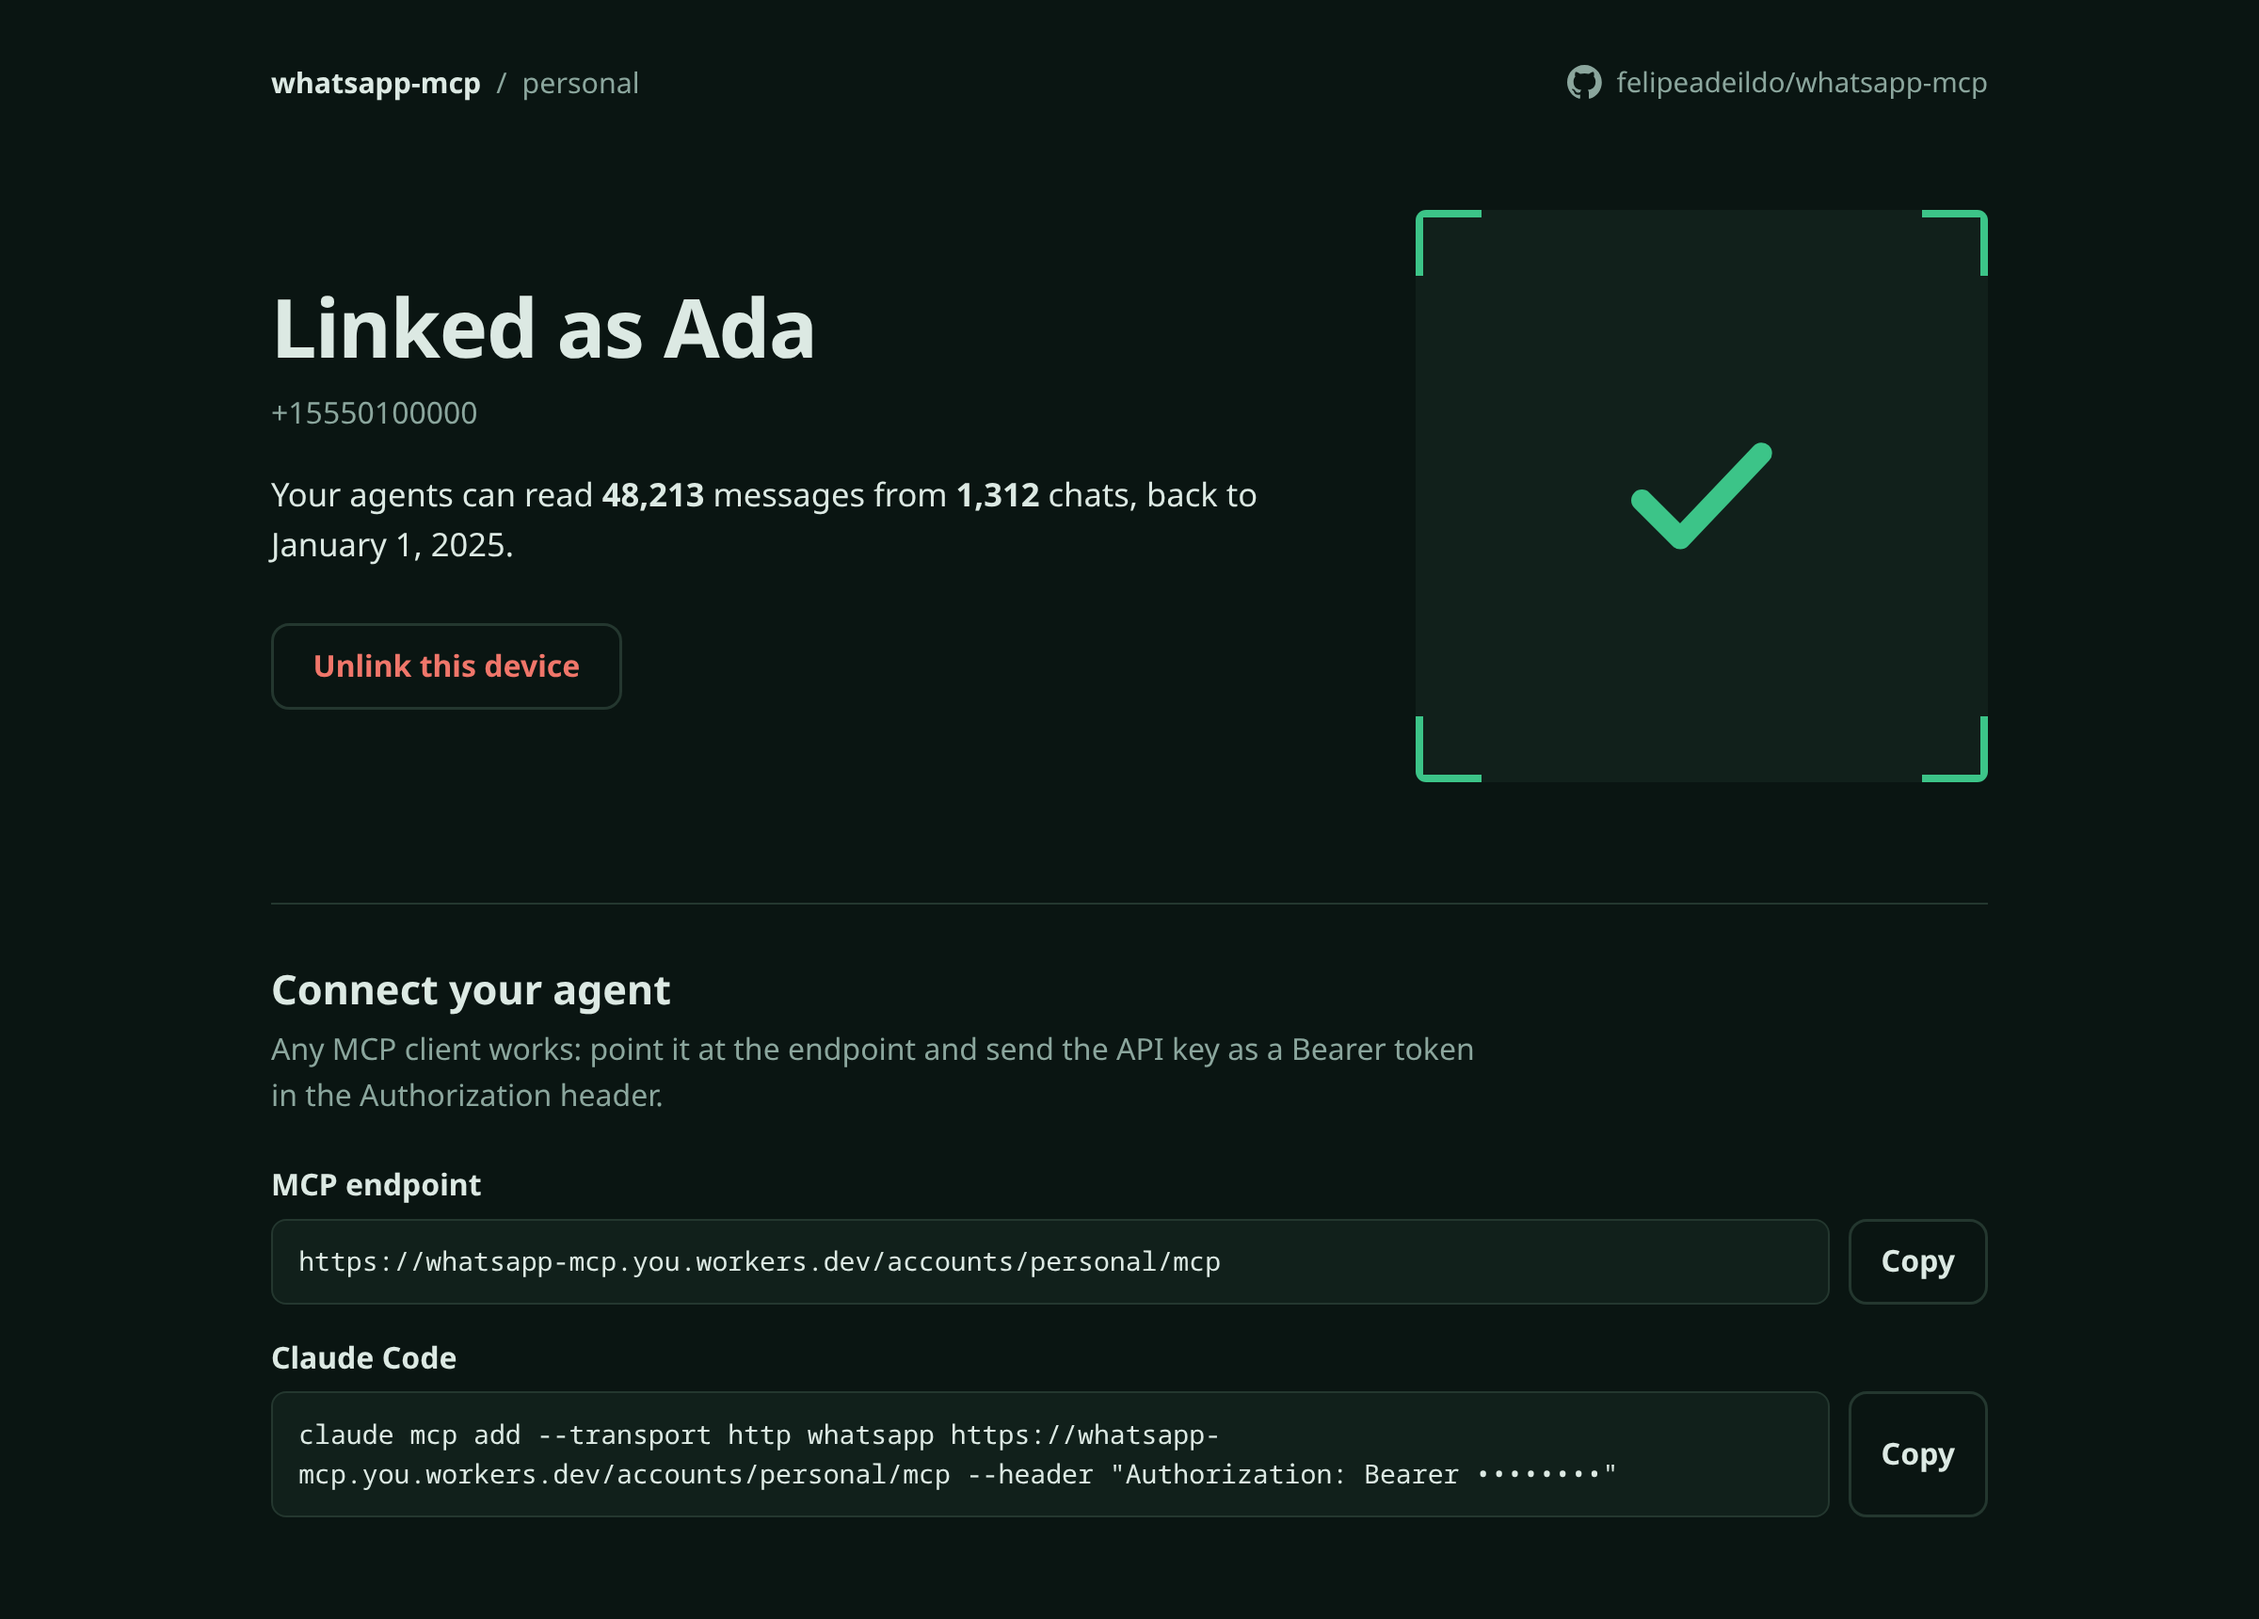
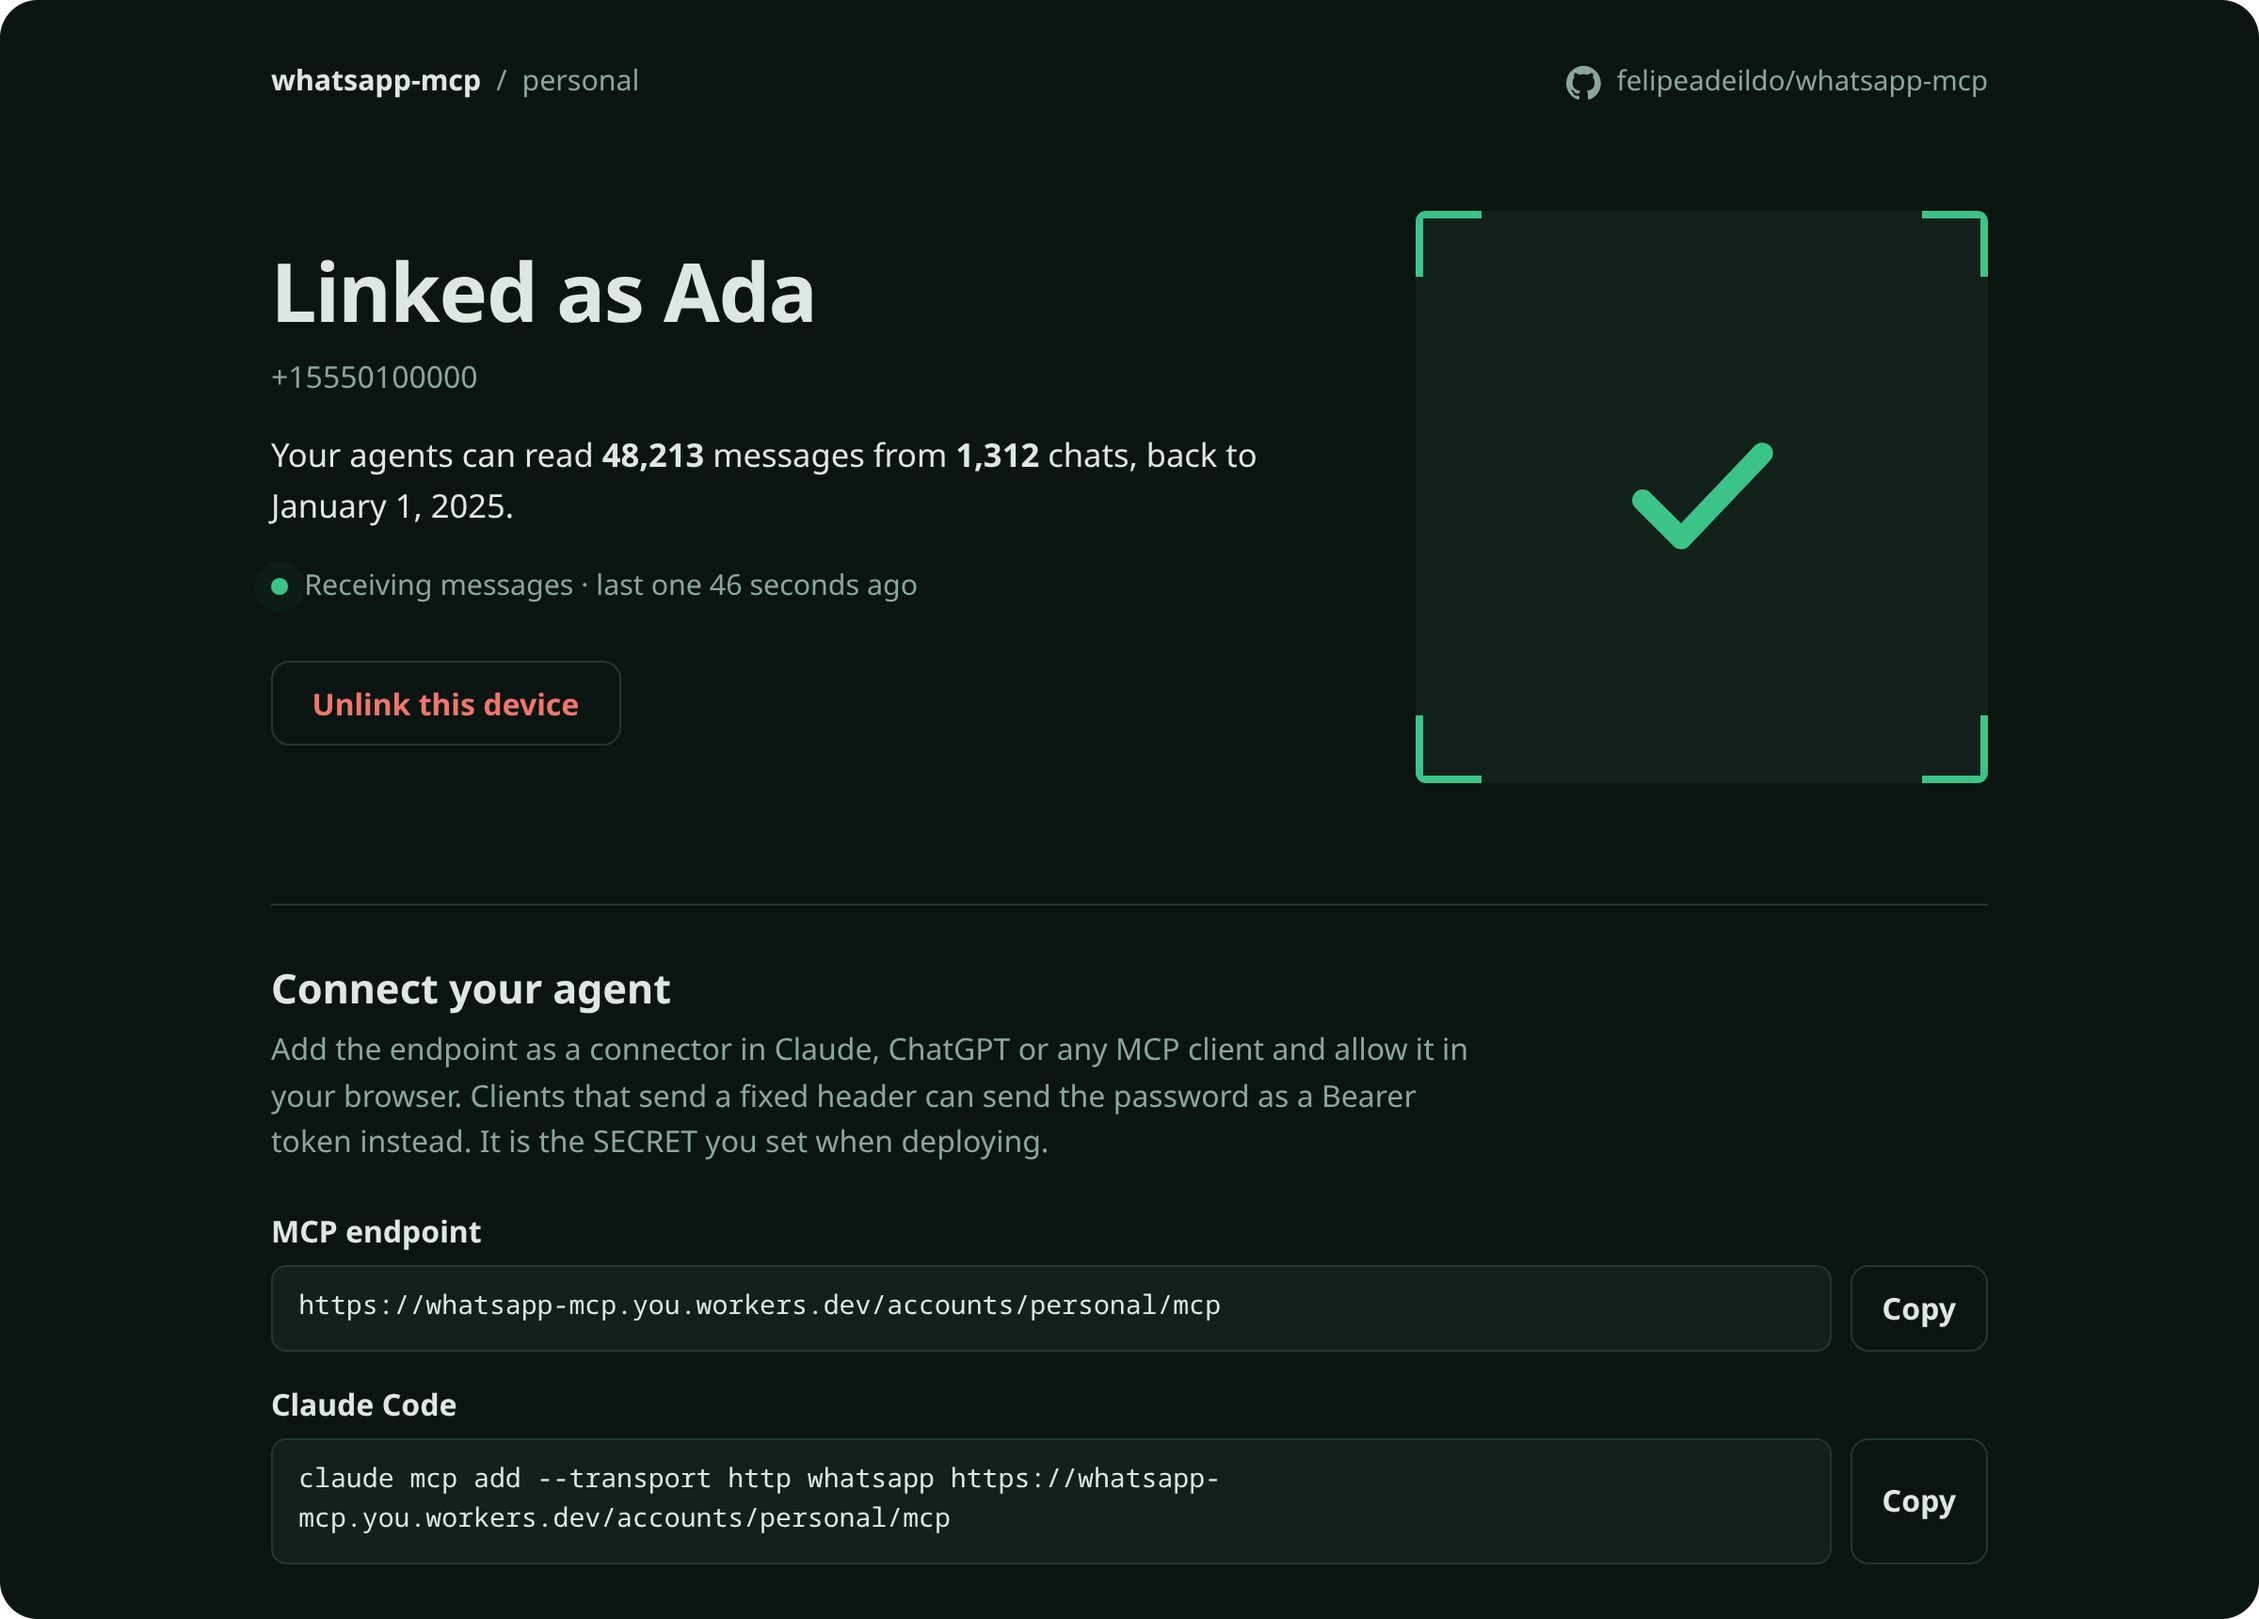
docs: explain OAuth and AUTH_MODE and refresh the screenshots with rounded corners

diff --git a/README.md b/README.md
@@ -16,7 +16,7 @@
 
 whatsapp-mcp lets an AI assistant like Claude read your WhatsApp chats, search them and send messages for you. It connects to your account the same way [WhatsApp Web](https://faq.whatsapp.com/1317564962315842) does, as a linked device, and keeps a searchable copy of your chats.
 
-It speaks [MCP](https://modelcontextprotocol.io/introduction), the standard way AI apps connect to tools, so it works with Claude Code, Cursor and other MCP clients. It runs on your own [Cloudflare](https://www.cloudflare.com) account, so your messages stay with you.
+It speaks [MCP](https://modelcontextprotocol.io/introduction), the standard way AI apps connect to tools, so it works with Claude, ChatGPT, Claude Code, Cursor and other MCP clients. It runs on your own [Cloudflare](https://www.cloudflare.com) account, so your messages stay with you.
 
 Once it is set up, you can ask things like:
 
@@ -32,14 +32,14 @@ You need a [Cloudflare account](https://dash.cloudflare.com/sign-up), a [GitHub 
 
 Click **Deploy to Cloudflare** above. Cloudflare copies this project to your GitHub, builds it and puts it online at an address like `https://whatsapp-mcp.<your-name>.workers.dev`.
 
-During the setup it asks for an `API_KEY`. That is a password you make up for your server. Generate a strong one in a terminal with `openssl rand -hex 32`, or use a password manager, and keep it safe. Anyone who has it can read and send your messages.
+During the setup it asks for a `SECRET`. That is the password of your server, at least 16 characters. Generate a strong one in a terminal with `openssl rand -hex 32`, or use a password manager, and keep it safe. Anyone who has it can read and send your messages.
 
 ### 2. Link your WhatsApp
 
-Open this address in your browser, with your API key after the `#`:
+Open this address in your browser and sign in with your `SECRET`:
 
 ```
-https://whatsapp-mcp.<your-name>.workers.dev/accounts/personal#<API_KEY>
+https://whatsapp-mcp.<your-name>.workers.dev/accounts/personal
 ```
 
 Select **Link WhatsApp**. On your phone, open WhatsApp, go to **Settings → Linked devices → Link a device** and point the camera at the code. The page then counts your chats as they arrive.
@@ -52,15 +52,19 @@ Select **Link WhatsApp**. On your phone, open WhatsApp, go to **Settings → Lin
 
 ### 3. Connect your AI assistant
 
-The pairing page shows the command for [Claude Code](https://docs.anthropic.com/en/docs/claude-code/mcp) with a copy button:
+Add this address as a custom connector in Claude or ChatGPT, or as a remote MCP server in any other client:
 
-```sh
-claude mcp add --transport http whatsapp \
-  https://whatsapp-mcp.<your-name>.workers.dev/accounts/personal/mcp \
-  --header "Authorization: Bearer <API_KEY>"
+```
+https://whatsapp-mcp.<your-name>.workers.dev/accounts/personal/mcp
 ```
 
-Other MCP clients need the same address and an `Authorization: Bearer <API_KEY>` header. See your client's documentation for where to put them.
+The app opens your server in the browser. Sign in with your `SECRET` and select **Allow**. In [Claude Code](https://docs.anthropic.com/en/docs/claude-code/mcp) that is:
+
+```sh
+claude mcp add --transport http whatsapp https://whatsapp-mcp.<your-name>.workers.dev/accounts/personal/mcp
+```
+
+Scripts and clients that can set a header can skip the browser and send `Authorization: Bearer <SECRET>` instead.
 
 ## What your assistant can do
 
@@ -91,7 +95,7 @@ Tools that send or change something tell your assistant so, and most assistants 
 
 ```mermaid
 flowchart LR
-  agent["AI assistant"] -- "MCP + API key" --> worker["Worker"]
+  agent["AI assistant"] -- "MCP + OAuth" --> worker["Worker"]
   worker -- "RPC" --> account
   subgraph account["Durable Object, one per WhatsApp account"]
     socket["WhatsApp session<br/>whatsapp-rust in WASM"]
@@ -107,12 +111,15 @@ WhatsApp sends your recent history once, when you link, and the archive keeps ev
 
 ## Configuration
 
-| Name       | Kind     | Purpose                                                       |
-| ---------- | -------- | ------------------------------------------------------------- |
-| `API_KEY`  | Secret   | The password every request needs                              |
-| `TIMEZONE` | Variable | Time zone for dates, like `America/Sao_Paulo`. `UTC` if unset |
+| Name        | Kind     | Purpose                                                               |
+| ----------- | -------- | --------------------------------------------------------------------- |
+| `SECRET`    | Secret   | The password of your server, at least 16 characters                   |
+| `AUTH_MODE` | Variable | How MCP clients get in: `oauth`, `api_key` or `both`. `both` if unset |
+| `TIMEZONE`  | Variable | Time zone for dates, like `America/Sao_Paulo`. `UTC` if unset         |
 
-Change `TIMEZONE` in `wrangler.jsonc`, or pass `--var TIMEZONE:<zone>` to `wrangler deploy`. The pairing page also uses a small REST API under `/accounts/:id`: `status`, `start`, `send` and `logout`.
+With `oauth`, an app connects after you sign in with `SECRET` in the browser and allow it. With `api_key`, clients send `Authorization: Bearer <SECRET>` on every request. The pairing page asks for `SECRET` in every mode, and allows five attempts per minute.
+
+Change the variables in `wrangler.jsonc`, or pass `--var TIMEZONE:<zone>` to `wrangler deploy`. OAuth grants live in a KV namespace that the first deploy creates. The pairing page also uses a small REST API under `/accounts/:id`: `status`, `start`, `send` and `logout`.
 
 ## Costs
 
@@ -137,7 +144,7 @@ See [Workers pricing](https://developers.cloudflare.com/workers/platform/pricing
 
 ## Is it safe?
 
-Your session and your messages stay in your Cloudflare account. The server talks only to WhatsApp, and only someone with your API key can use it.
+Your session and your messages stay in your Cloudflare account. The server talks only to WhatsApp, and only someone who knows your `SECRET` can use it or allow an app in.
 
 This is an unofficial WhatsApp client, not affiliated with WhatsApp or Meta, and WhatsApp can ban accounts that use one. Link a number you can afford to lose, and keep your assistant asking before it sends messages.
 
@@ -147,12 +154,12 @@ You need [Bun](https://bun.sh). [Wrangler](https://developers.cloudflare.com/wor
 
 ```sh
 bun install
-printf 'API_KEY=%s\nTIMEZONE=UTC\n' "$(openssl rand -hex 32)" > .dev.vars
-bun run dev     # http://localhost:8787/accounts/dev#<API_KEY>
+printf 'SECRET=%s\n' "$(openssl rand -hex 32)" > .dev.vars   # see .dev.vars.example
+bun run dev     # http://localhost:8787/accounts/dev
 bun run check   # types, lint, format and tests
 ```
 
-To deploy from your machine, run `bunx wrangler secret put API_KEY` once and then `bun run deploy`.
+To deploy from your machine, run `bunx wrangler secret put SECRET` once and then `bun run deploy`.
 
 Built on [baileyrs](https://github.com/oxidezap/baileyrs) and [whatsapp-rust](https://github.com/oxidezap/whatsapp-rust). Message rendering and identity rules follow [mautrix-whatsapp](https://github.com/mautrix/whatsapp). Licensed under [GPL-3.0](LICENSE).
 
